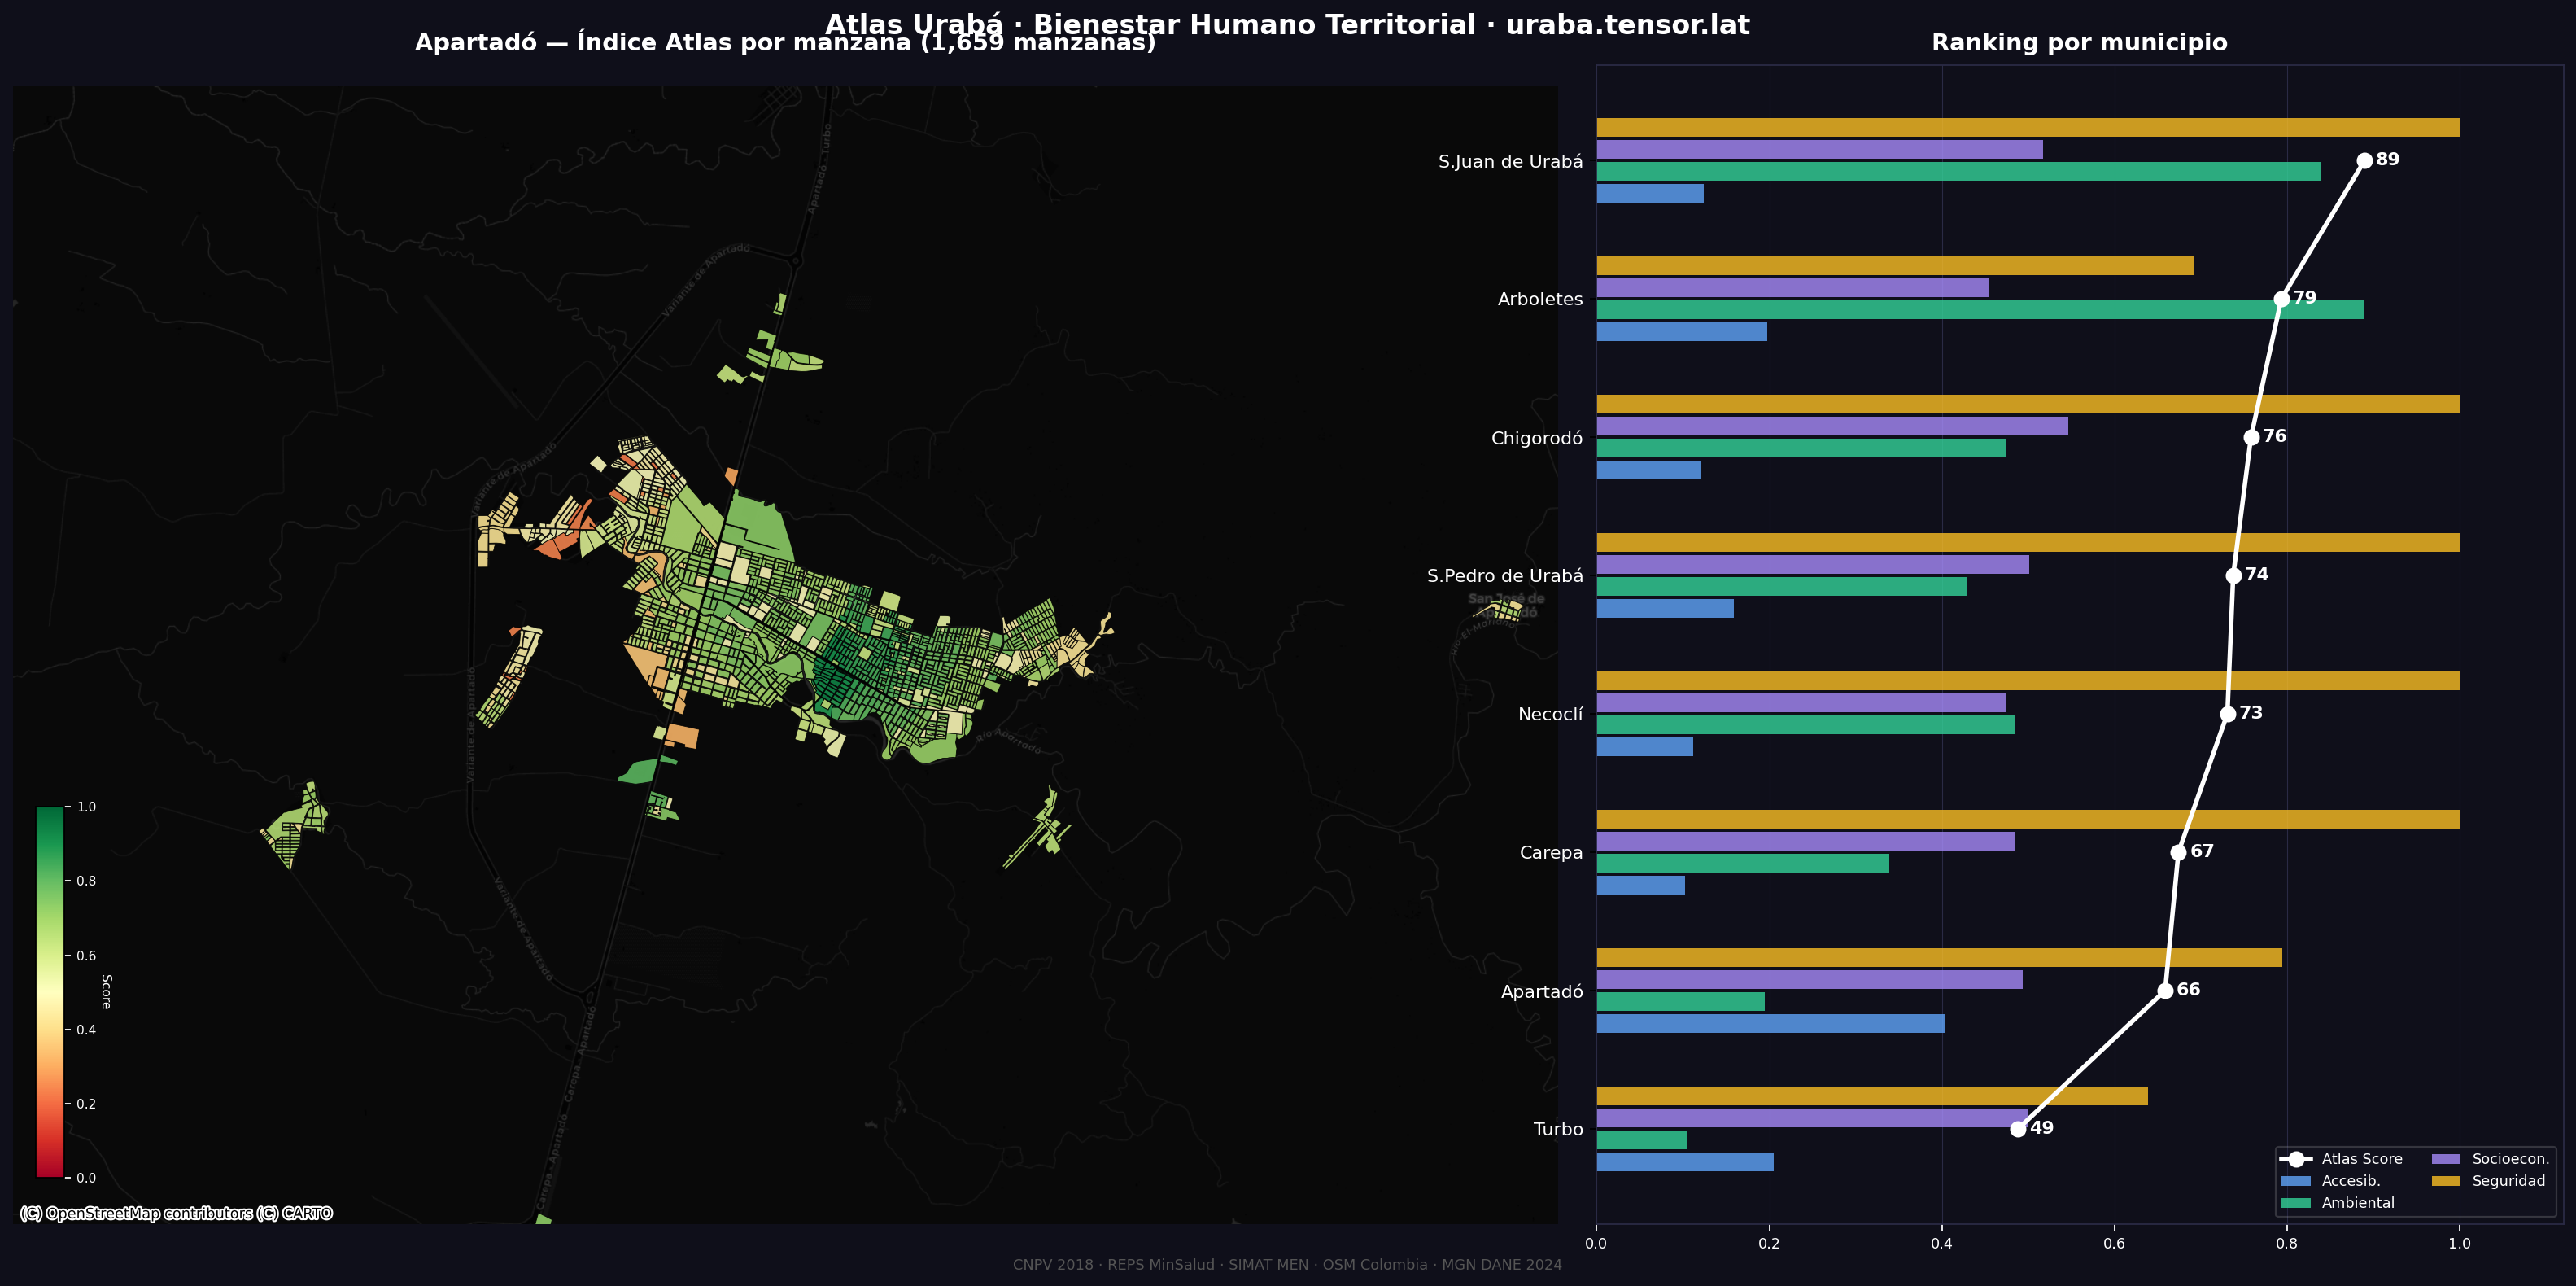
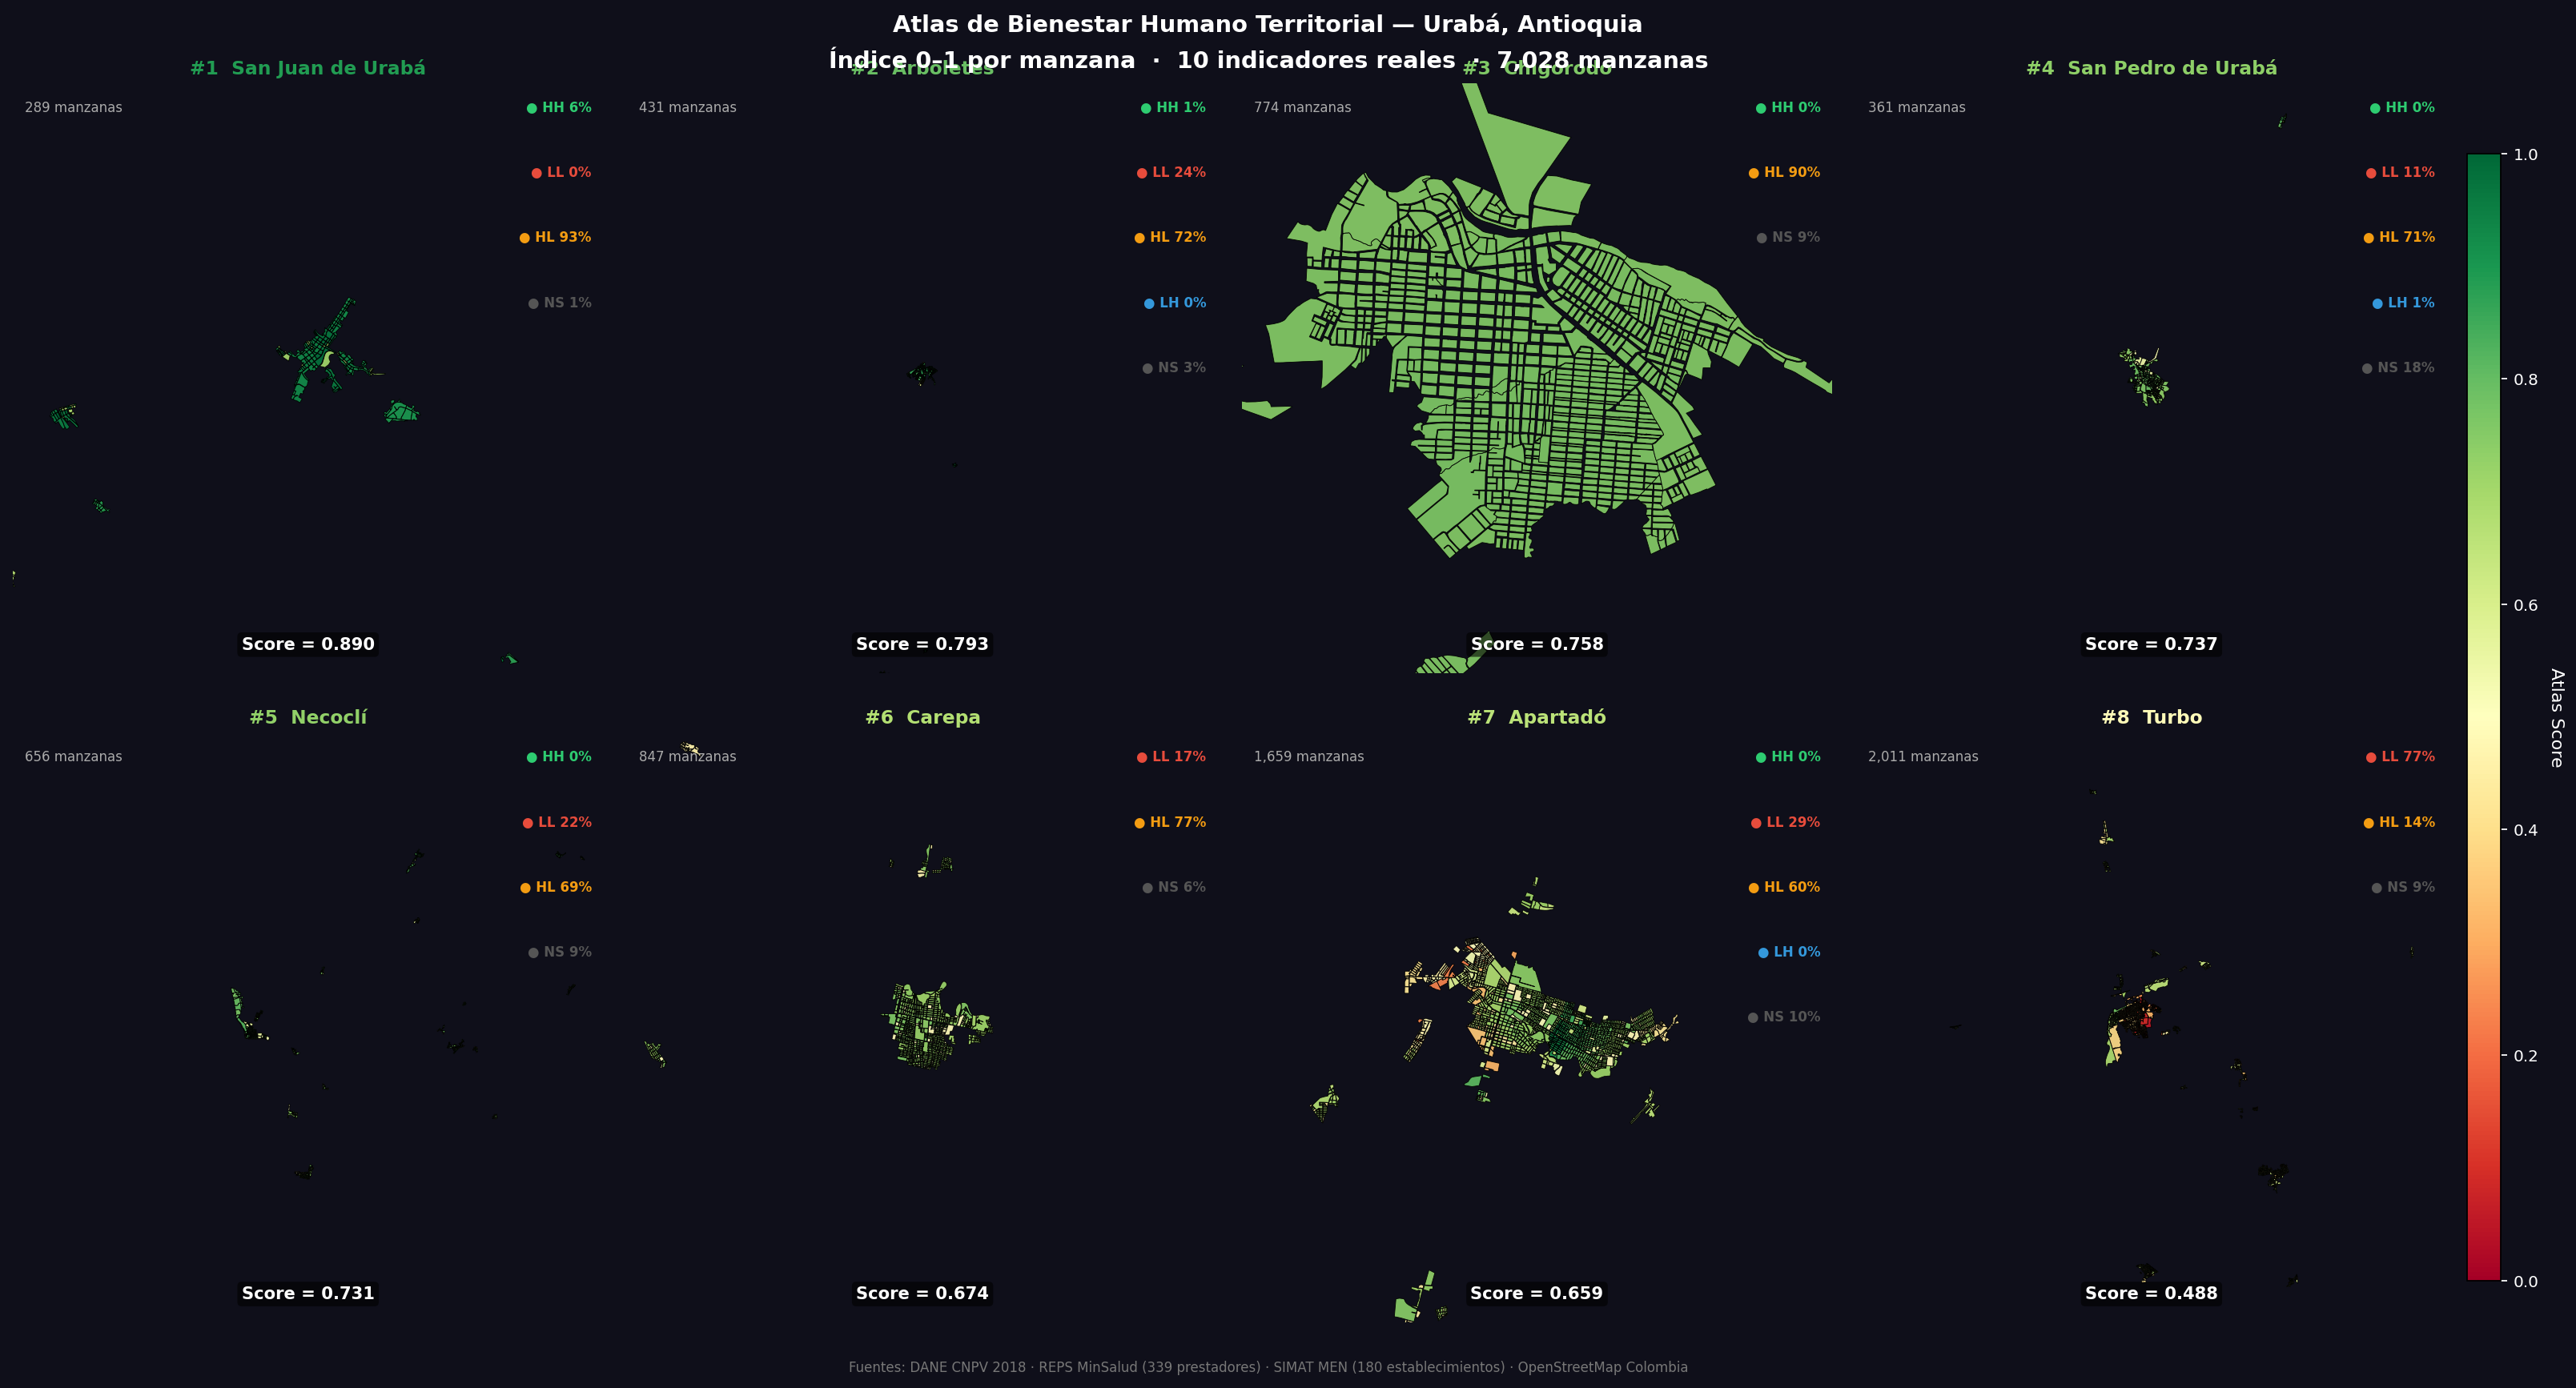
feat: 5 nuevos datasets integrados — MinTIC 4G, SIVIGILA, TerriData NBI, IPSE ZNI, EXPO banano
Capas nuevas:
  tic-fill        — Cobertura 4G por municipio (MinTIC 2023, azul por % centros poblados)
                    Arboletes/San Pedro 100% · Apartadó 86% · Turbo 81% · Carepa 79%
  epidemiologia   — Enfermedades tropicales SIVIGILA (dengue+malaria, amarillo por intensidad)
                    Turbo 312 casos · Necoclí 189 · San Juan 134 · Apartadó 145
  terridata-nbi   — Índice NBI (pobreza) Terridata-DNP
                    Necoclí 61.4% · San Juan 58.7% · Turbo 52.1% vs Apartadó 28.4%

Datos almacenados (referencia y panel Panorama):
  ipse_zni.json     — 60 localidades ZNI en Antioquia (Vigía del Fuerte, Murindó)
  expo_banano.json  — Exportaciones banano Antioquia 2023: 1.85M ton / USD 1,120M

LayerToggle: nuevos grupos TIC + epidemiología + NBI
Saber 11: Apartadó 248pts · Chigorodó 237 · Carepa 232 vs San Juan 206 · Necoclí 208

diff --git a/app/composables/useAtlasMap.js b/app/composables/useAtlasMap.js
@@ -477,6 +477,43 @@ export function useAtlasMap(mapRef) {
       paint: { 'line-color': 'rgba(200,0,0,0.5)', 'line-width': 1 },
     })
 
+    // ── TIC: Cobertura 4G/5G por municipio (MinTIC 2023) ─────────────────
+    map.value.addSource('tic', { type: 'geojson', data: '/data/tic_cobertura.geojson' })
+    map.value.addLayer({
+      id: 'tic-fill', type: 'fill', source: 'tic',
+      layout: { visibility: 'none' },
+      paint: {
+        'fill-color': ['interpolate', ['linear'], ['to-number', ['get', 'pct_4g'], 0],
+          0, '#1e1b4b', 40, '#312e81', 70, '#4f46e5', 90, '#818cf8', 100, '#c7d2fe'],
+        'fill-opacity': 0.75,
+      },
+    })
+
+    // ── Epidemiología SIVIGILA (enfermedades tropicales) ─────────────────
+    map.value.addSource('epidemiologia', { type: 'geojson', data: '/data/sivigila_epidemiologia.geojson' })
+    map.value.addLayer({
+      id: 'epidemiologia-fill', type: 'fill', source: 'epidemiologia',
+      layout: { visibility: 'none' },
+      paint: {
+        'fill-color': ['interpolate', ['linear'], ['to-number', ['get', 'casos_tropicales'], 0],
+          0, 'rgba(254,243,199,0.3)', 100, 'rgba(251,191,36,0.55)',
+          200, 'rgba(245,158,11,0.7)', 300, 'rgba(217,119,6,0.85)'],
+        'fill-opacity': 0.8,
+      },
+    })
+
+    // ── TerriData: NBI, analfabetismo, Saber 11 ──────────────────────────
+    map.value.addSource('terridata', { type: 'geojson', data: '/data/terridata_indicadores.geojson' })
+    map.value.addLayer({
+      id: 'terridata-nbi', type: 'fill', source: 'terridata',
+      layout: { visibility: 'none' },
+      paint: {
+        'fill-color': ['interpolate', ['linear'], ['to-number', ['get', 'nbi_pct'], 0],
+          20, '#1a9850', 35, '#a6d96a', 50, '#fdae61', 65, '#f46d43'],
+        'fill-opacity': 0.8,
+      },
+    })
+
     // ── Infraestructura: Puerto Antioquia, aeropuerto, vías clave ─────────
     map.value.addSource('infraestructura', { type: 'geojson', data: '/data/infraestructura.geojson' })
     map.value.addLayer({
@@ -646,6 +683,9 @@ export function useAtlasMap(mapRef) {
       'sipra-excl': ['sipra-exclusion-fill', 'sipra-exclusion-outline'],
       fincas:       ['fincas-fill', 'fincas-outline'],
       uariv:          ['uariv-fill', 'uariv-outline'],
+      tic:            ['tic-fill'],
+      epidemiologia:  ['epidemiologia-fill'],
+      'nbi':          ['terridata-nbi'],
       infraestructura: ['infra-lineas', 'infra-puntos', 'infra-labels'],
       'eva-banano':    ['eva-banano-fill', 'eva-banano-outline'],
       inundacion:     ['inundacion-fill', 'inundacion-outline'],

diff --git a/app/components/LayerToggle.vue b/app/components/LayerToggle.vue
@@ -52,6 +52,11 @@ const layers = [
   { id: '3d',        label: '3D Extrusion',     color: '#8B5CF6',                group: 'Visual'     },
   // Infraestructura
   { id: 'infraestructura', label: 'Puerto Antioquia', color: '#0ea5e9',               group: 'Territorio' },
+  // Conectividad TIC
+  { id: 'tic',             label: 'Cobertura 4G',     color: '#818cf8',               group: 'Territorio' },
+  // NBI y Educación
+  { id: 'nbi',             label: 'NBI (pobreza)',     color: '#f46d43',               group: 'Social'     },
+  { id: 'epidemiologia',   label: 'Enf. tropicales',  color: '#f59e0b',               group: 'Riesgo'     },
   // Agro — datos EVA MADR
   { id: 'eva-banano',   label: 'Banano EVA',         color: '#F5E642',                group: 'Agro'       },
   // Riesgo